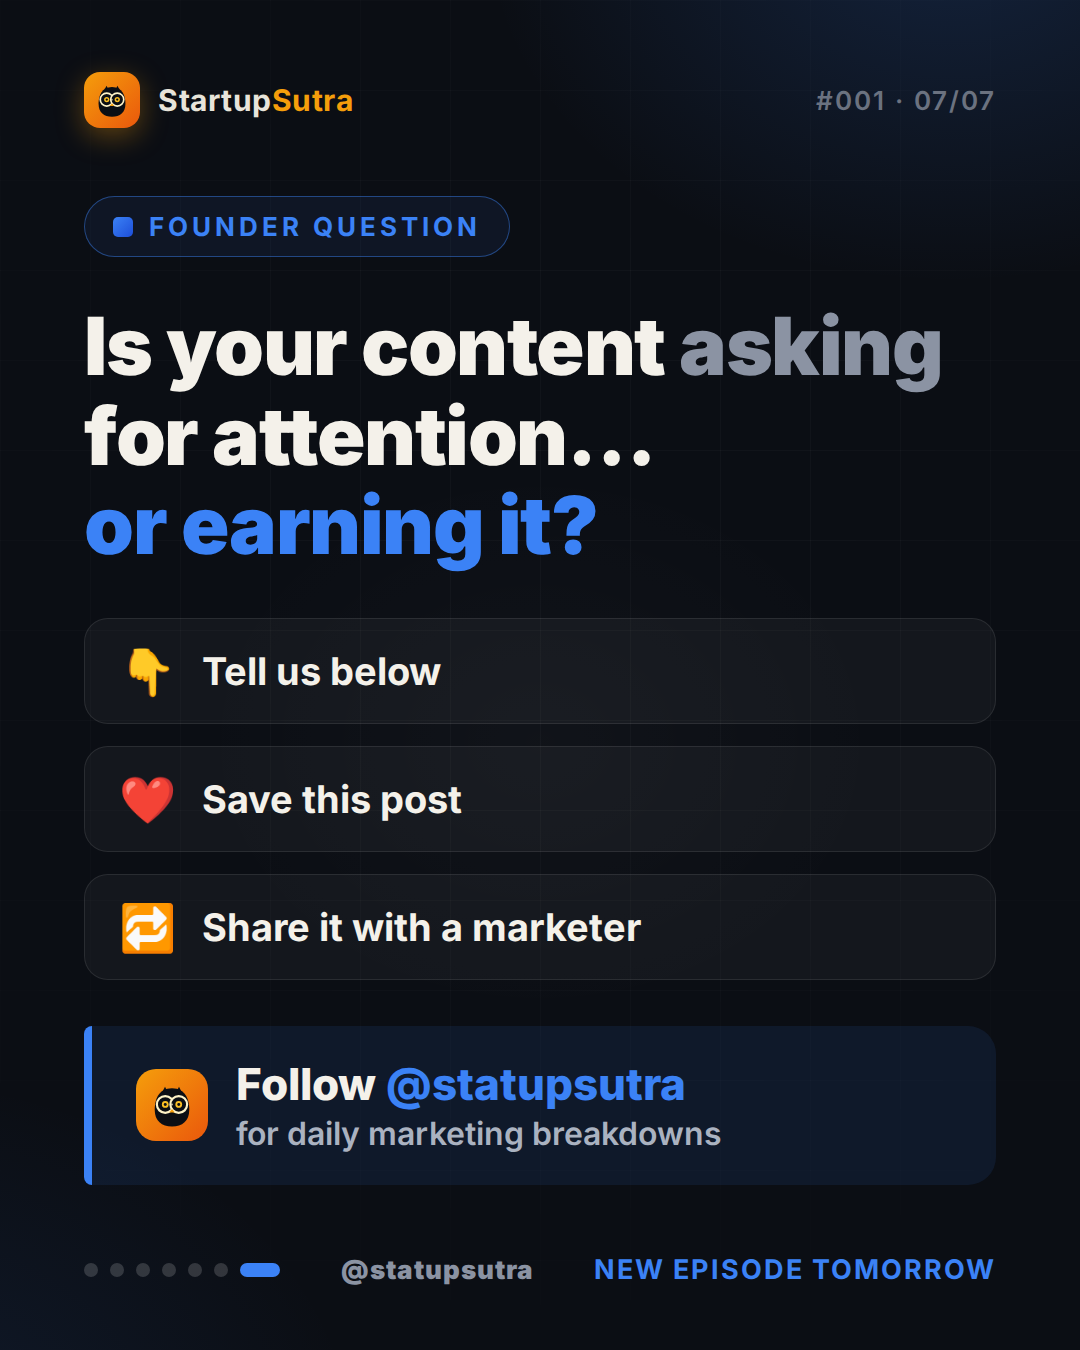
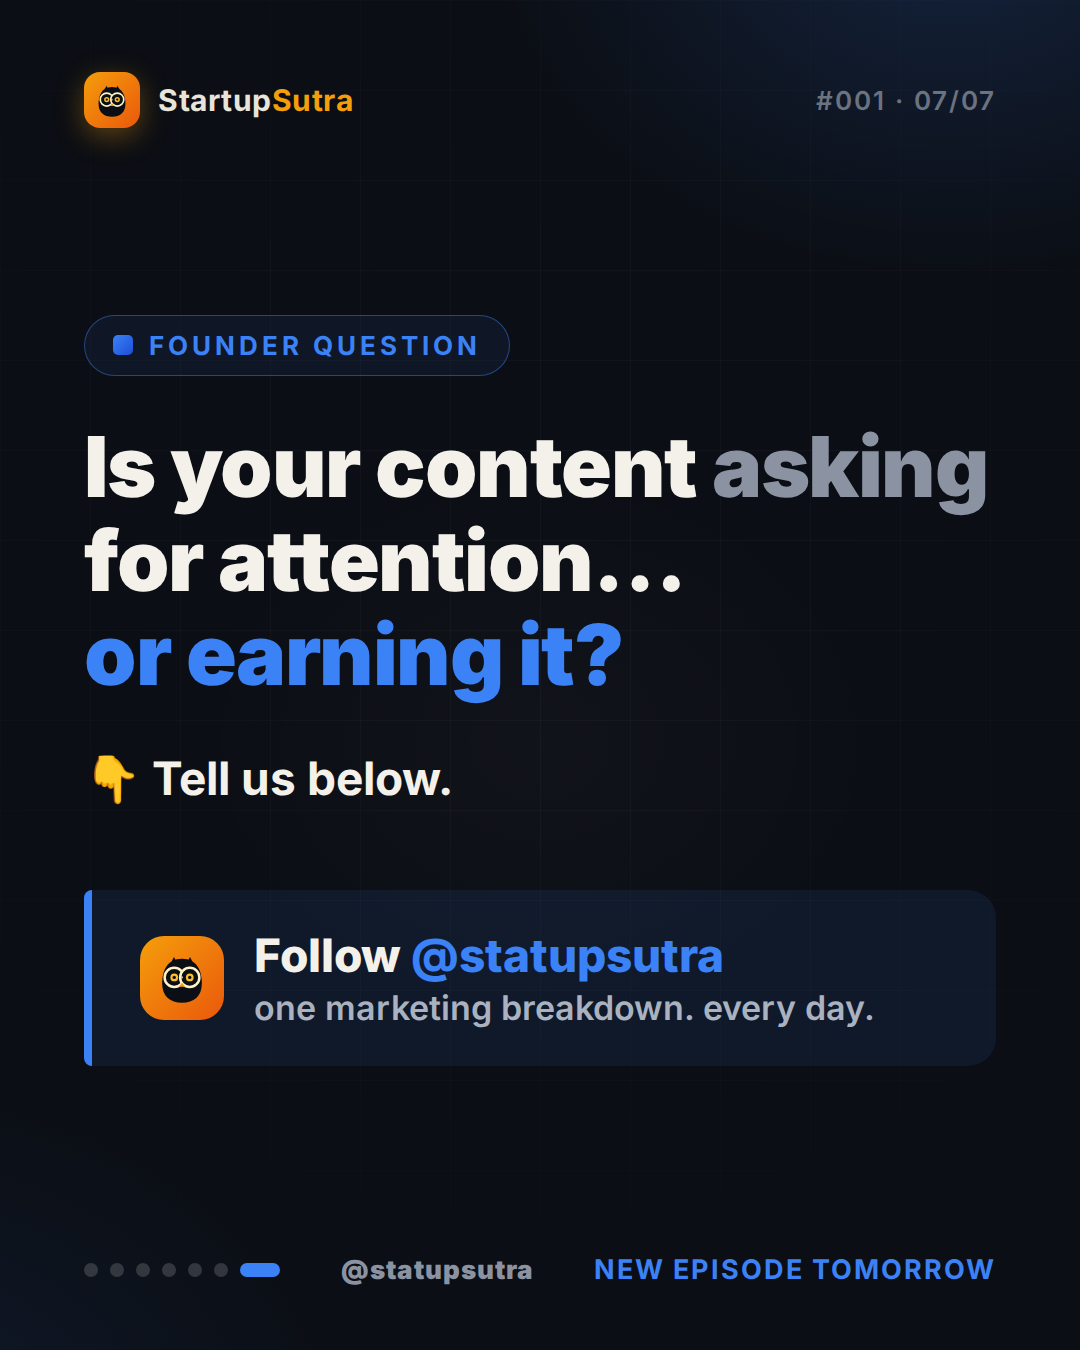
Duolingo final edits: campaigns-vs-character, mascot psychology, creator framework lesson, single CTA; add editorial formula (Company→Principle→Framework) to guide
Claude-Session: https://claude.ai/code/session_01LRcEgKfHXnrMC6oknzTBx2

diff --git a/StartupSutra/2026-07-21-duolingo-marketing-breakdown/source/carousel.html b/StartupSutra/2026-07-21-duolingo-marketing-breakdown/source/carousel.html
@@ -112,10 +112,10 @@
   <div class="body">
     <h1 style="font-size:80px;">Instead of polished ads…</h1>
     <div class="cols">
-      <div class="col"><div class="colhead" style="color:#8b93a3;">Every other brand</div><div class="colbody" style="color:#8b93a3;">Made ads.</div></div>
-      <div class="col"><div class="colhead" style="color:#3b82f6;">Duolingo</div><div class="colbody" style="color:#3b82f6;">Made the mascot<br>the content.</div></div>
+      <div class="col"><div class="colhead" style="color:#8b93a3;">Every other brand</div><div class="colbody" style="color:#8b93a3;">Created<br>campaigns.</div></div>
+      <div class="col"><div class="colhead" style="color:#3b82f6;">Duolingo</div><div class="colbody" style="color:#3b82f6;">Created<br>a character.</div></div>
     </div>
-    <div class="sub">The owl became the campaign.</div>
+    <div class="sub">Campaigns expire. <strong>Characters compound.</strong></div>
   </div>
   <div class="bottombar"><div class="dots"><i></i><i></i><i class="on"></i><i></i><i></i><i></i><i></i></div><div class="foot"><b>@statupsutra</b></div><div class="swipe">Swipe <span class="arr">→</span></div></div>
 </div></div>
@@ -124,13 +124,14 @@
 <div class="slide" id="s4"><div class="inner">
   <div class="topbar"><div class="brand"><div class="mark"><svg width="42" height="42"><use href="#owl"/></svg></div><div class="name">Startup<span>Sutra</span></div></div><div class="counter">#001 · 04/07</div></div>
   <div class="body">
-    <h1 style="font-size:78px;">People didn't just <span class="dim">watch.</span></h1>
+    <h1 style="font-size:82px;">The mascot became…</h1>
     <div class="list">
-      <div class="item"><span class="ico">💬</span><span class="txt">They commented.</span></div>
-      <div class="item"><span class="ico">🔁</span><span class="txt">They shared.</span></div>
-      <div class="item"><span class="ico">😂</span><span class="txt">They memed.</span></div>
-      <div class="item win"><span class="ico">👀</span><span class="txt">They waited for the next post.</span></div>
+      <div class="item"><span class="ico">✔</span><span class="txt">Recognizable</span></div>
+      <div class="item"><span class="ico">✔</span><span class="txt">Relatable</span></div>
+      <div class="item"><span class="ico">✔</span><span class="txt">Remixable</span></div>
+      <div class="item win"><span class="ico">✔</span><span class="txt">Memorable</span></div>
     </div>
+    <div class="sub">That's <strong>why it spread.</strong></div>
   </div>
   <div class="bottombar"><div class="dots"><i></i><i></i><i></i><i class="on"></i><i></i><i></i><i></i></div><div class="foot"><b>@statupsutra</b></div><div class="swipe">Swipe <span class="arr">→</span></div></div>
 </div></div>
@@ -139,9 +140,10 @@
 <div class="slide" id="s5"><div class="inner">
   <div class="topbar"><div class="brand"><div class="mark"><svg width="42" height="42"><use href="#owl"/></svg></div><div class="name">Startup<span>Sutra</span></div></div><div class="counter">#001 · 05/07</div></div>
   <div class="body">
-    <div class="kicker"><span class="sq"></span>The Lesson</div>
-    <h1 style="font-size:84px;">Marketing stopped <span class="dim">feeling like marketing.</span></h1>
-    <h1 style="font-size:96px; margin-top:56px;">It became <span class="accent">entertainment.</span></h1>
+    <div class="kicker"><span class="sq"></span>The Framework</div>
+    <h1 style="font-size:88px;">Most brands <span class="dim">hire</span> creators.</h1>
+    <h1 style="font-size:88px; margin-top:56px;">Duolingo <span class="accent">became one.</span></h1>
+    <div class="sub">It turned its mascot into the creator.</div>
   </div>
   <div class="bottombar"><div class="dots"><i></i><i></i><i></i><i></i><i class="on"></i><i></i><i></i></div><div class="foot"><b>@statupsutra</b></div><div class="swipe">Swipe <span class="arr">→</span></div></div>
 </div></div>
@@ -162,15 +164,11 @@
   <div class="topbar"><div class="brand"><div class="mark"><svg width="42" height="42"><use href="#owl"/></svg></div><div class="name">Startup<span>Sutra</span></div></div><div class="counter">#001 · 07/07</div></div>
   <div class="body">
     <div class="kicker"><span class="sq"></span>Founder Question</div>
-    <h1 style="font-size:80px;">Is your content <span class="dim">asking</span> for attention…<br><span class="accent">or earning it?</span></h1>
-    <div class="list" style="margin-top:48px; gap:22px;">
-      <div class="item" style="font-size:38px; padding:24px 34px;"><span class="ico">👇</span><span class="txt">Tell us below</span></div>
-      <div class="item" style="font-size:38px; padding:24px 34px;"><span class="ico">❤</span><span class="txt">Save this post</span></div>
-      <div class="item" style="font-size:38px; padding:24px 34px;"><span class="ico">🔁</span><span class="txt">Share it with a marketer</span></div>
-    </div>
-    <div class="quotecard" style="margin-top:46px; display:flex; align-items:center; gap:28px; font-size:44px; padding:30px 44px; font-weight:800;">
-      <div class="mark" style="width:72px;height:72px;border-radius:20px;background:linear-gradient(135deg,#f59e0b,#ea580c);display:flex;align-items:center;justify-content:center;flex-shrink:0;"><svg width="54" height="54"><use href="#owl"/></svg></div>
-      <div>Follow <span style="color:#3b82f6;">@statupsutra</span><br><span style="font-weight:600;font-size:32px;color:#aab2c0;">for daily marketing breakdowns</span></div>
+    <h1 style="font-size:84px;">Is your content <span class="dim">asking</span> for attention…<br><span class="accent">or earning it?</span></h1>
+    <div class="sub" style="margin-top:44px; font-size:46px; color:#f4f1ea; font-weight:700;">👇 Tell us below.</div>
+    <div class="quotecard" style="margin-top:80px; display:flex; align-items:center; gap:30px; font-size:46px; padding:36px 48px; font-weight:800;">
+      <div class="mark" style="width:84px;height:84px;border-radius:24px;background:linear-gradient(135deg,#f59e0b,#ea580c);display:flex;align-items:center;justify-content:center;flex-shrink:0;"><svg width="62" height="62"><use href="#owl"/></svg></div>
+      <div>Follow <span style="color:#3b82f6;">@statupsutra</span><br><span style="font-weight:600;font-size:34px;color:#aab2c0;">one marketing breakdown. every day.</span></div>
     </div>
   </div>
   <div class="bottombar"><div class="dots"><i></i><i></i><i></i><i></i><i></i><i></i><i class="on"></i></div><div class="foot"><b>@statupsutra</b></div><div class="swipe">New episode tomorrow</div></div>

diff --git a/StartupSutra/STYLE-GUIDE.md b/StartupSutra/STYLE-GUIDE.md
@@ -36,6 +36,20 @@ Practical consequence: argument-driven structure over chronology. Open with the
 claim, prove it with the company, end with a question the reader must answer
 about their own product.
 
+### The editorial formula
+
+**Company → Principle → Framework.** Never Company → Story. Every episode ends
+on the *hidden principle* — the transferable framework — not the surface
+observation. People don't save company history; they save frameworks they can
+apply beyond the company.
+
+- *Observation:* "Duolingo became entertaining." ❌ (true, but disposable)
+- *Framework:* "Duolingo turned its brand into a creator." ✅ (transferable, saved)
+
+Runway (Marketing Breakdown): Duolingo → character marketing · Figma →
+collaboration as positioning · Notion → identity marketing · Airbnb → trust
+before transactions · Patagonia → values as marketing.
+
 ---
 
 ## 2. Content pillars — the four series
